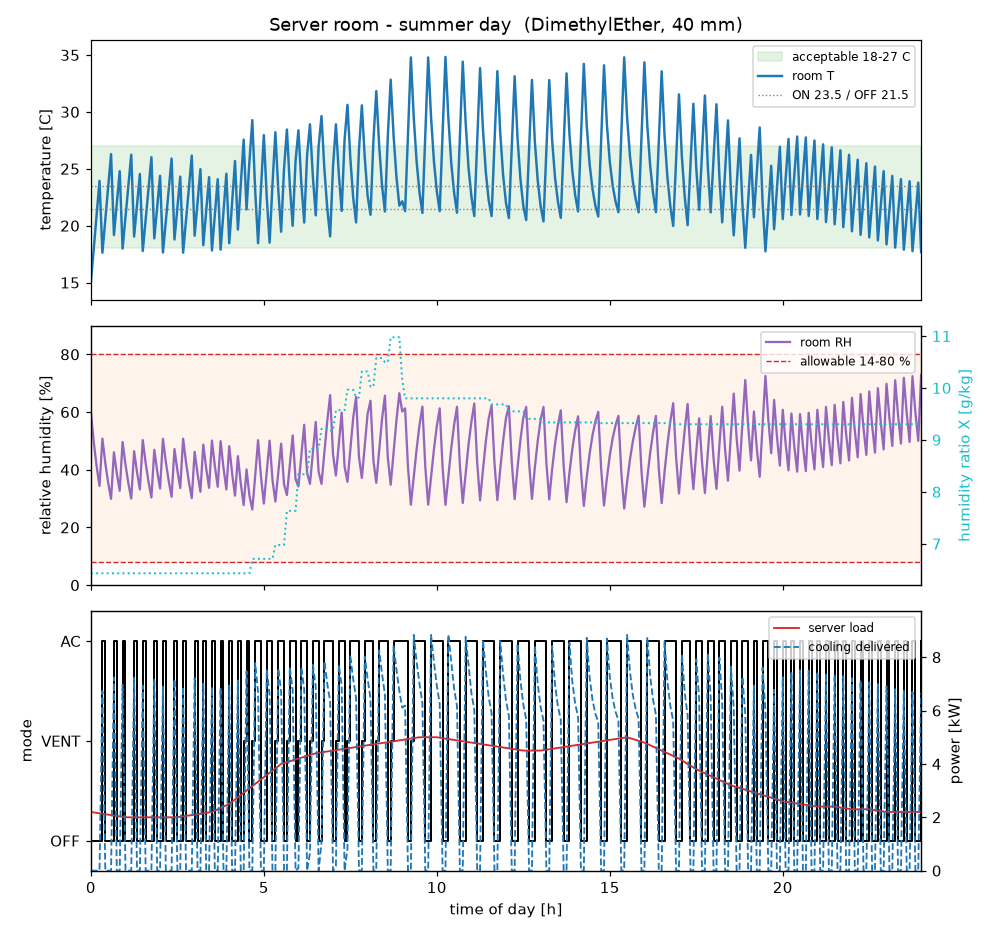
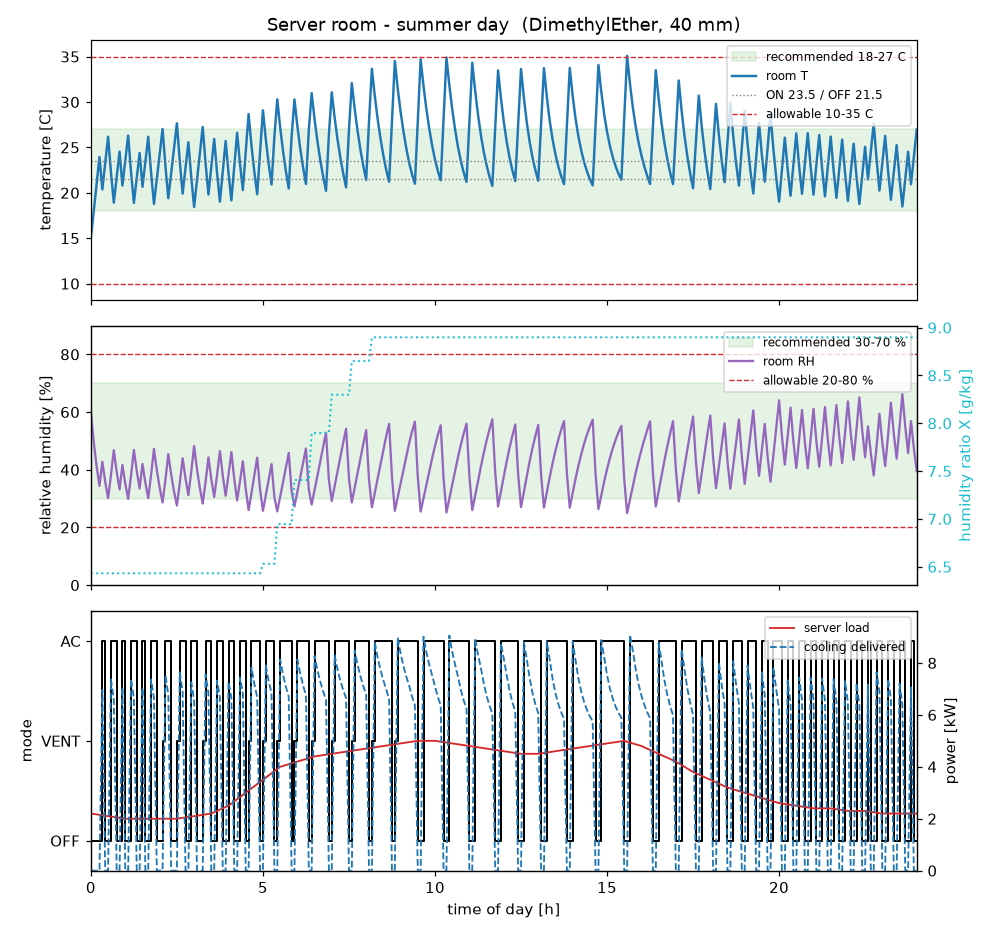
bug fixes on the merge and re-routing task 2 through cycle_point

diff --git a/src/task2/cycle.py b/src/task2/cycle.py
@@ -50,7 +50,6 @@ Compressor mass flow + isentropic efficiency from the provided module.
 """
 import numpy as np
 from scipy.interpolate import RegularGridInterpolator
-from scipy.optimize import minimize
 from common import config, Fluid_CP as FCP, compressor_model as comp
 
 EH = "CBar"
@@ -118,52 +117,6 @@ def cycle_point(T_room_C, T_amb_C, bore_mm=None, refrigerant=None,
         "dt_sc_actual": dt_sc
     }
 
-def optimize_cop(T_room_C, T_amb_C, bore_mm=None, refrigerant=None):
-    """Floats T_ev and T_co to maximize COP_inner, subject to pinch-point
-    floors on each heat exchanger's approach temperature:
-        T_room_C - T_ev >= config.PINCH_EVAP_K
-        T_co - T_amb_C  >= config.PINCH_COND_K
-    Superheat/subcool stay locked at the config defaults. COP_inner need not
-    be monotonic in (T_ev, T_co) since the compressor's eta_is/m_dot vary
-    with both, so the floors are passed to SLSQP as bounds rather than
-    assumed to be the optimum outright.
-    """
-    bore_mm = config.STANDIN_BORE_MM if bore_mm is None else bore_mm
-    refrigerant = config.STANDIN_REFRIGERANT if refrigerant is None else refrigerant
-
-    T_ev_max = T_room_C - config.PINCH_EVAP_K
-    T_co_min = T_amb_C + config.PINCH_COND_K
-
-    def objective(x):
-        T_ev, T_co = x
-        try:
-            res = cycle_point(T_room_C, T_amb_C, bore_mm, refrigerant,
-                               T_ev_C=T_ev, T_co_C=T_co)
-            if res["COP_inner"] <= 0:
-                return 1e6
-            return -res["COP_inner"]
-        except Exception:
-            # Catch fluid boundary errors from the CoolProp wrapper
-            return 1e6
-
-    bounds = [
-        (T_ev_max - 40.0, T_ev_max),     # T_ev: capped by the evap pinch floor
-        (T_co_min, T_co_min + 50.0),     # T_co: floored by the cond pinch floor
-    ]
-    x0 = [
-        min(T_room_C - config.DT_APPROACH_EVAP_K, T_ev_max),
-        max(T_amb_C + config.DT_APPROACH_COND_K, T_co_min),
-    ]
-
-    sol = minimize(objective, x0, method="SLSQP", bounds=bounds)
-
-    if sol.success:
-        T_ev_opt, T_co_opt = sol.x
-        return cycle_point(T_room_C, T_amb_C, bore_mm, refrigerant,
-                            T_ev_C=T_ev_opt, T_co_C=T_co_opt)
-    # Fallback to the standard unoptimized config if the solver fails to converge
-    return cycle_point(T_room_C, T_amb_C, bore_mm, refrigerant)
-
 
 def default_grids():
     """The (T_room, T_amb) grid main_task2.py sizes its maps on: T_amb spans the
@@ -185,7 +138,13 @@ def build_map(T_room_grid=None, T_amb_grid=None, bore_mm=None, refrigerant=None)
     RegularGridInterpolator (Hint 1). With no grid args this uses a WIDE
     stand-in range (Task 1's single-bore demo run, which can overshoot the
     acceptable band); main_task2.py / Task 3 instead pass the narrower,
-    data-driven grid from default_grids() above."""
+    data-driven grid from default_grids() above.
+
+    Each grid point uses cycle_point's constant-approach cycle. This is already
+    the optimum, not just a stand-in: cycle_opt.optimize_cop (the SLSQP inner
+    optimisation over T_ev/T_co) verifies that the pinch floors are the binding
+    constraint everywhere, so the floored constant-approach point and the true
+    optimum coincide (see cycle_opt.py's __main__ self-test)."""
     if T_room_grid is None:
         T_room_grid = np.arange(13.0, 36.01, 1.0)   # widened: 18-27 band pushes T_room up; don't extrapolate the AC map
     if T_amb_grid is None:

diff --git a/src/task2/cycle_opt.py b/src/task2/cycle_opt.py
@@ -42,7 +42,13 @@ def _states(T_co, T_ev, refrigerant, dt_sh, dt_sc, bore_mm):
     eta_is, m_dot = comp.recip_comp_corr_SP(
         (T_ev, T_co, dt_sh, dt_sc, bore_mm), refrigerant)
     h2 = z1["h"] + (z2s["h"] - z1["h"]) / eta_is
-    z3 = FCP.state(["T", "p"], [T_co - dt_sc, p_co], refrigerant, Eh=EH)    # subcooled liquid
+    if dt_sc > 0.0:
+        z3 = FCP.state(["T", "p"], [T_co - dt_sc, p_co], refrigerant, Eh=EH)    # subcooled liquid
+    else:
+        # dt_sc = 0 sits exactly on the saturation line; (T, p) there is the
+        # degenerate two-phase boundary and CoolProp errors (see cycle.cycle_point's
+        # same guard). Use the robust (T, x=0) saturated-liquid entry instead.
+        z3 = FCP.state(["T", "x"], [T_co, 0.0], refrigerant, Eh=EH)
     q_evap = z1["h"] - z3["h"]      # h1 - h4 (isenthalpic throttle, h4 = h3)
     w_comp = h2 - z1["h"]
     return p_ev, p_co, q_evap, w_comp, eta_is, m_dot

diff --git a/analysis/sensitivity.py b/analysis/sensitivity.py
@@ -77,7 +77,7 @@ def metrics(cmap):
     return (max(res[s]['T_max'] for s in config.SEASONS),
             min(res[s]['T_min'] for s in config.SEASONS),
             sum(res[s]['ac_starts'] for s in config.SEASONS),
-            100 * np.mean([res[s]['frac_in_band'] for s in config.SEASONS]),
+            100 * np.mean([res[s]['frac_T_recommended'] for s in config.SEASONS]),
             100 * min(res[s]['phi_min'] for s in config.SEASONS))
 
 

diff --git a/src/main.py b/src/main.py
@@ -38,7 +38,7 @@ def main():
         r = R[s]
         print("%-7s | %4.1f %4.1f   %4.0f%%  | %4.0f%% %4.0f%% | "
               "%2d /%5.0f   %2d /%5.0f | %5.2f %5.2f kWh | %4d"
-              % (s, r["T_min"], r["T_max"], 100 * r["frac_in_band"],
+              % (s, r["T_min"], r["T_max"], 100 * r["frac_T_recommended"],
                  100 * r["phi_min"], 100 * r["phi_max"],
                  100 * r["frac_phi_recommended"], 100 * r["frac_phi_allowable"],
                  r["ac_starts"], r["ac_min"], r["vent_starts"], r["vent_min"],

diff --git a/src/task1/flow_limits.py b/src/task1/flow_limits.py
@@ -175,7 +175,7 @@ def vent_overshoot_ok(V_flow_m3s, T_amb_min_C, q_server_min_kw):
     """Worst forced VENT step (min run, from T_ON, coldest ambient, lowest server)
     must land at/above the lower band. Returns (T_land, ok)."""
     T_land = vent_step_landing_C(V_flow_m3s, config.T_ON_C, T_amb_min_C, q_server_min_kw)
-    return T_land, (T_land >= config.T_BAND_LOW_C)
+    return T_land, (T_land >= config.T_RECOMMENDED_LOW_C)
 
 
 def summarise(server_by_season):

diff --git a/src/task1/simulation.py b/src/task1/simulation.py
@@ -73,7 +73,7 @@ def simulate_season(season, cmap):
     if not _vent_ok:
         warnings.warn("%s: a worst forced VENT step lands at %.1f degC, below the "
                       "%.1f degC low band -> consider a lower design flow."
-                      % (season, _t_land, config.T_BAND_LOW_C))
+                      % (season, _t_land, config.T_RECOMMENDED_LOW_C))
 
     T = np.zeros(N); PHI = np.zeros(N); X = np.zeros(N)
     MODE = np.empty(N, dtype=object)